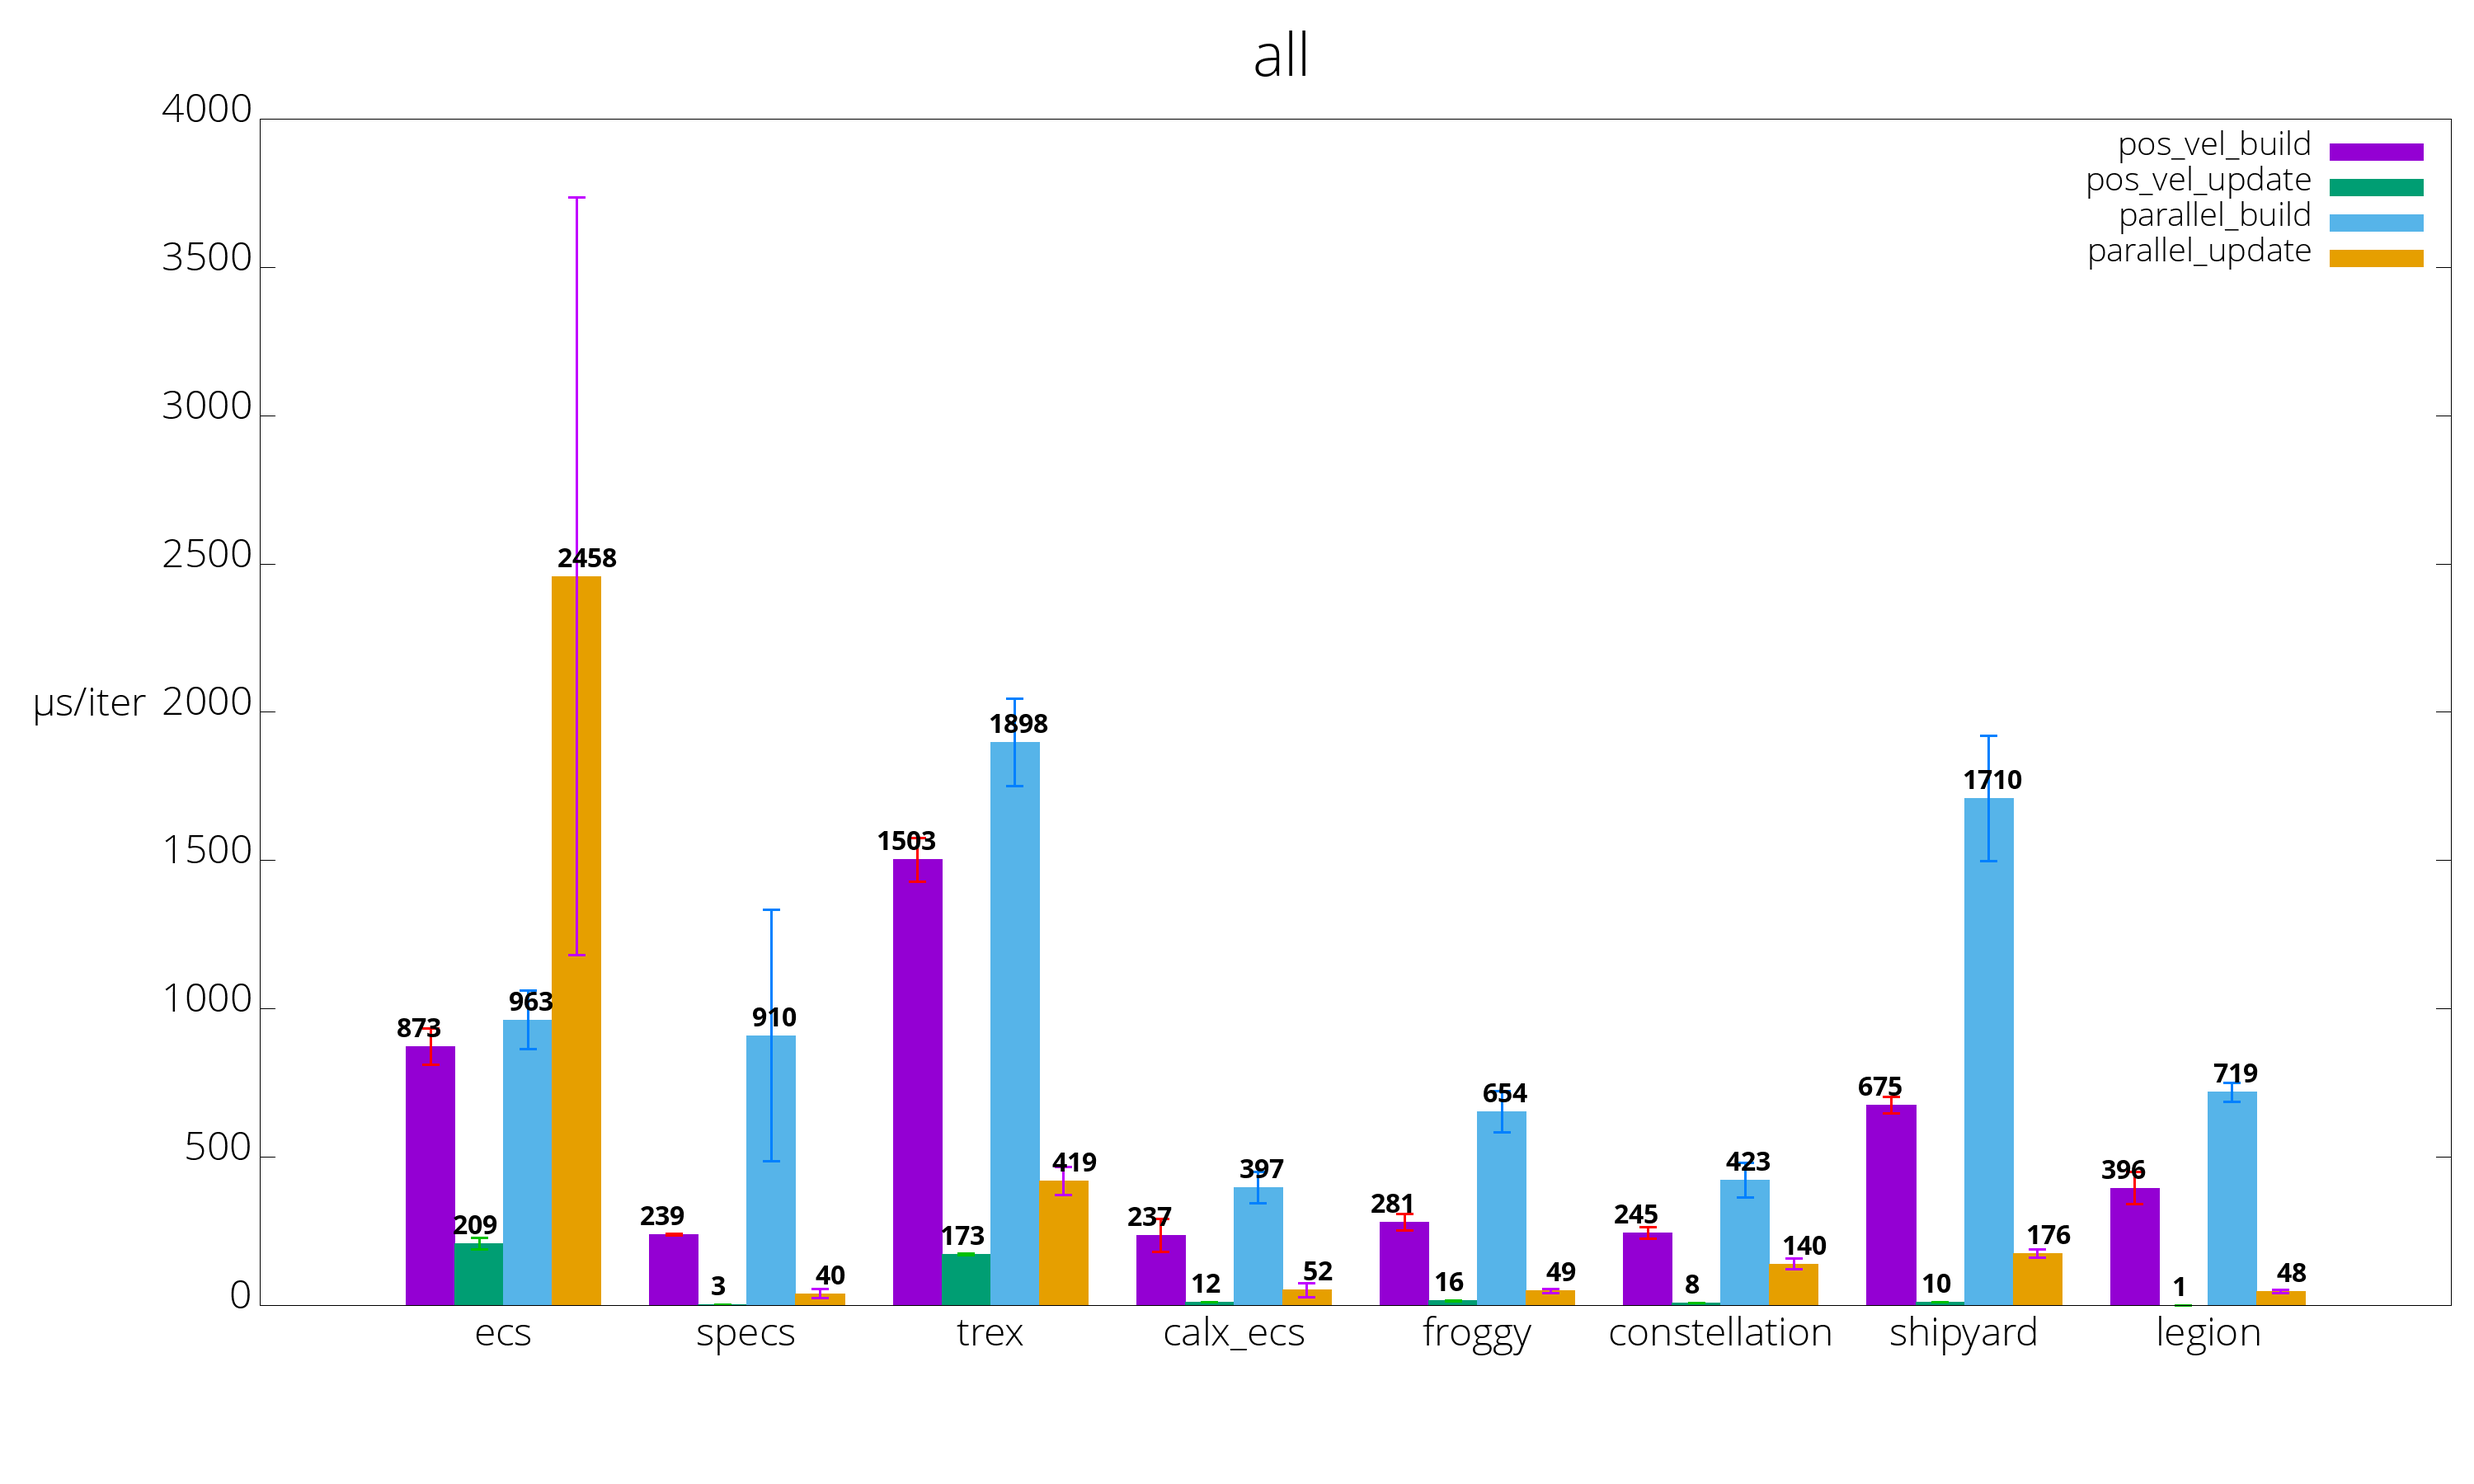
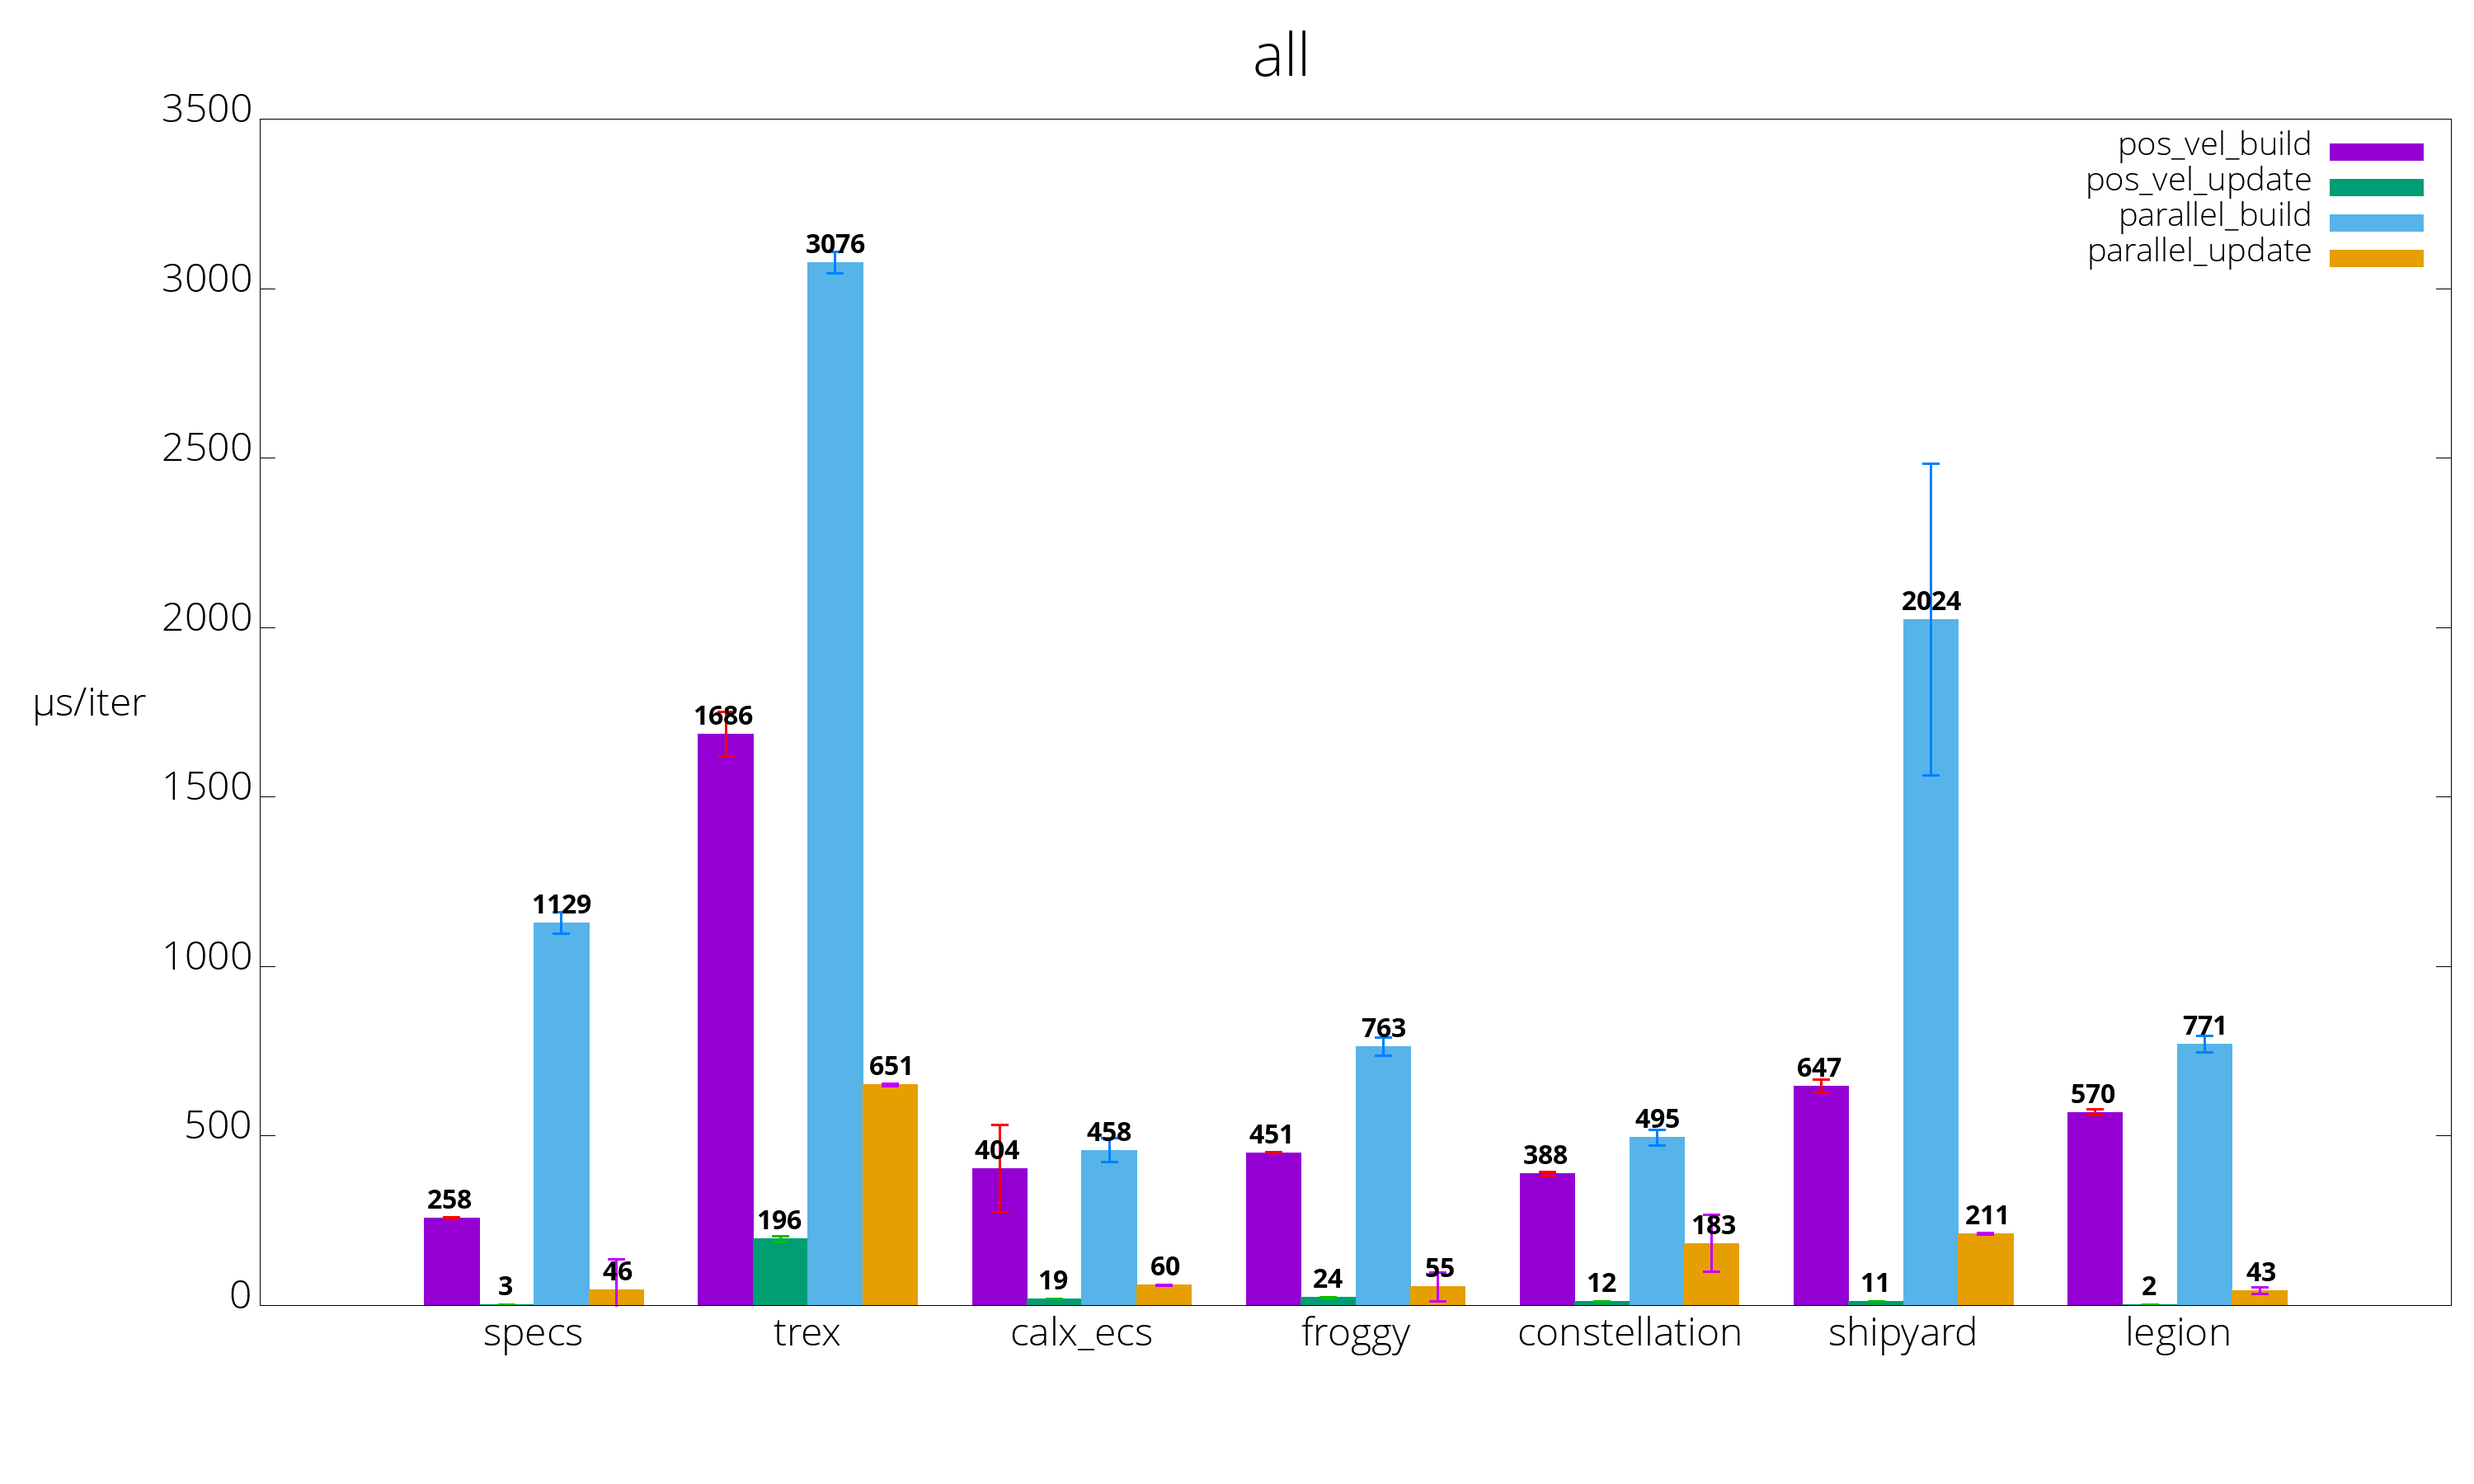
Cache benchmark results so you can re-plot easily

diff --git a/bench_results.py b/bench_results.py
@@ -1,6 +1,7 @@
+import os.path
 import subprocess
 
-benches = ['ecs', 'specs', 'trex', 'calx_ecs', 'froggy', 'constellation', 'shipyard', 'legion']
+benches = ['specs', 'trex', 'calx_ecs', 'froggy', 'constellation', 'shipyard', 'legion']
 bench_targets = ['pos_vel', 'parallel']
 bench_names = ['build', 'update']
 
@@ -55,7 +56,13 @@ def parse(out, bench_target, bench_name):
 
     return (result, error)
 
-out = subprocess.check_output(["cargo", "+nightly", "bench"], stderr=subprocess.STDOUT)
+if os.path.isfile('bench.output'):
+    with open('bench.output', 'r') as f:
+        out = f.read()
+else:
+    out = subprocess.check_output(["cargo", "+nightly", "bench"], stderr=subprocess.STDOUT)
+    with open('bench.output', 'w') as f:
+        f.write(out)
 
 with open('README.md.tmpl', 'r') as f:
     readme = f.read()

diff --git a/README.md b/README.md
@@ -7,14 +7,14 @@ Benchmarks are located in `benches/[bench_name]_[ecs_crate_name].rs`.
 
  Library         | pos_vel build                 | pos_vel update                 | parallel build                 | parallel update
  --------------- |:-----------------------------:|:------------------------------:|:------------------------------:|:--------------------------------:
- [calx-ecs]      | 237 µs/iter (+/- 55)      | 12 µs/iter (+/- 0)      | 397 µs/iter (+/- 52)      | 52 µs/iter (+/- 23)
- [constellation] | 245 µs/iter (+/- 19) | 8 µs/iter (+/- 0) | 423 µs/iter (+/- 58) | 140 µs/iter (+/- 19)
- [ecs]           | 873 µs/iter (+/- 60)           | 209 µs/iter (+/- 20)           | 963 µs/iter (+/- 98)           | 2,458 µs/iter (+/- 1,277)
- [froggy]        | 281 µs/iter (+/- 27)        | 16 µs/iter (+/- 1)        | 654 µs/iter (+/- 70)        | 49 µs/iter (+/- 7)
- [specs]         | 239 µs/iter (+/- 3)         | 3 µs/iter (+/- 0)         | 910 µs/iter (+/- 424)         | 40 µs/iter (+/- 15)
- [trex]          | 1,503 µs/iter (+/- 74)          | 173 µs/iter (+/- 3)          | 1,898 µs/iter (+/- 148)          | 419 µs/iter (+/- 47)
- [shipyard]      | 675 µs/iter (+/- 28)      | 10 µs/iter (+/- 0)      | 1,710 µs/iter (+/- 212)      | 176 µs/iter (+/- 14)
- [legion]        | 396 µs/iter (+/- 54)        | 1 µs/iter (+/- 0)        | 719 µs/iter (+/- 32)        | 48 µs/iter (+/- 5)
+ [calx-ecs]      | 404 µs/iter (+/- 128)      | 19 µs/iter (+/- 0)      | 458 µs/iter (+/- 36)      | 60 µs/iter (+/- 1)
+ [constellation] | 388 µs/iter (+/- 7) | 12 µs/iter (+/- 0) | 495 µs/iter (+/- 23) | 183 µs/iter (+/- 84)
+ [ecs]           | {pos_vel_build_ecs}           | {pos_vel_update_ecs}           | {parallel_build_ecs}           | {parallel_update_ecs}
+ [froggy]        | 451 µs/iter (+/- 2)        | 24 µs/iter (+/- 1)        | 763 µs/iter (+/- 27)        | 55 µs/iter (+/- 42)
+ [specs]         | 258 µs/iter (+/- 3)         | 3 µs/iter (+/- 0)         | 1,129 µs/iter (+/- 32)         | 46 µs/iter (+/- 91)
+ [trex]          | 1,686 µs/iter (+/- 65)          | 196 µs/iter (+/- 9)          | 3,076 µs/iter (+/- 32)          | 651 µs/iter (+/- 4)
+ [shipyard]      | 647 µs/iter (+/- 19)      | 11 µs/iter (+/- 0)      | 2,024 µs/iter (+/- 460)      | 211 µs/iter (+/- 3)
+ [legion]        | 570 µs/iter (+/- 8)        | 2 µs/iter (+/- 0)        | 771 µs/iter (+/- 24)        | 43 µs/iter (+/- 10)
 
 [calx-ecs]: https://github.com/rsaarelm/calx-ecs
 [constellation]: https://github.com/TomGillen/constellation/
